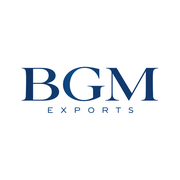
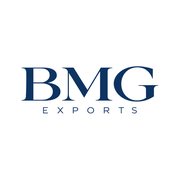
Correct the company name to BMG Exports
The name was spelled BGM throughout. Updates every page, title, description,
structured data, llms.txt, alt text, stone IDs (bgm-00x -> bmg-00x, with a
permanent redirect for old links), package name and site URL
(bmgexports.vercel.app). Replaces the logo, favicon, app icons and share card
with the corrected BMG artwork.

Changed region(s): [[0.1111, 0.3611, 0.8889, 0.6389]]

diff --git a/lib/site.ts b/lib/site.ts
@@ -1,11 +1,11 @@
 // Single source of truth for site-wide facts used by metadata, structured data and llms.txt.
 
 export const SITE = {
-  name: "BGM Exports",
-  url: process.env.NEXT_PUBLIC_SITE_URL ?? "https://bgmexports.vercel.app",
+  name: "BMG Exports",
+  url: process.env.NEXT_PUBLIC_SITE_URL ?? "https://bmgexports.vercel.app",
   tagline: "Brilliance, exported with integrity.",
   description:
-    "BGM Exports supplies certified diamonds, selected with care and delivered to jewellers, designers and collectors worldwide. Browse the collection and send an enquiry.",
+    "BMG Exports supplies certified diamonds, selected with care and delivered to jewellers, designers and collectors worldwide. Browse the collection and send an enquiry.",
   keywords: [
     "certified diamonds",
     "diamond exporter",
@@ -15,7 +15,7 @@ export const SITE = {
     "IGI certified diamonds",
     "wholesale diamonds",
     "loose diamonds",
-    "BGM Exports",
+    "BMG Exports",
   ],
 } as const;
 
@@ -38,15 +38,15 @@ export const abs = (path: string) => new URL(path, SITE.url).toString();
 // Plain-language gemology answers, reused by the FAQ page, its structured data and llms.txt.
 export const FAQ: { q: string; a: string }[] = [
   {
-    q: "What does BGM Exports sell?",
-    a: "BGM Exports supplies certified diamonds to jewellers, designers and collectors worldwide. You can browse the collection online and send an enquiry for availability and pricing.",
+    q: "What does BMG Exports sell?",
+    a: "BMG Exports supplies certified diamonds to jewellers, designers and collectors worldwide. You can browse the collection online and send an enquiry for availability and pricing.",
   },
   {
     q: "Are your diamonds certified?",
     a: "Yes. Every stone we offer is graded by an independent gemological laboratory, GIA or IGI, and the certificate is listed with the stone.",
   },
   {
-    q: "How do I buy a diamond from BGM Exports?",
+    q: "How do I buy a diamond from BMG Exports?",
     a: "Choose a stone in the collection and press 'Enquire about this stone', or use the contact page to describe what you need. We reply with availability and pricing.",
   },
   {

diff --git a/app/llms.txt/route.ts b/app/llms.txt/route.ts
@@ -13,7 +13,7 @@ export function GET() {
 
 > ${SITE.description}
 
-BGM Exports is a diamond exporter. It supplies certified diamonds, including fancy blue stones, to jewellers, designers and collectors worldwide. Stones are graded by independent laboratories (GIA or IGI). Sales are by enquiry: there is no online checkout, and prices are quoted on request.
+BMG Exports is a diamond exporter. It supplies certified diamonds, including fancy blue stones, to jewellers, designers and collectors worldwide. Stones are graded by independent laboratories (GIA or IGI). Sales are by enquiry: there is no online checkout, and prices are quoted on request.
 
 ## Contact
 - Email: ${CONTACT.email}
@@ -23,7 +23,7 @@ BGM Exports is a diamond exporter. It supplies certified diamonds, including fan
 - [Home](${abs("/")}): interactive anatomy of a diamond (table, crown, girdle, pavilion, culet) and entry points
 - [Collection](${abs("/collection")}): the stones currently listed, filterable by shape and carat
 - [FAQ](${abs("/faq")}): short answers about certification, shipping, the 4Cs and diamond anatomy
-- [About](${abs("/about")}): who BGM Exports is and how it works
+- [About](${abs("/about")}): who BMG Exports is and how it works
 - [Contact / enquiry](${abs("/contact")}): send an enquiry; accepts an optional stone reference
 
 ## Current stones
@@ -34,7 +34,7 @@ ${stones}
 - [Sitemap](${abs("/sitemap.xml")})
 
 ## How to act on this site
-- To enquire about a stone, open \`${abs("/contact")}?stone=<stone id>\`, for example \`${abs("/contact")}?stone=${diamonds[0]?.id ?? "bgm-001"}\`, and submit the form. The user should confirm before anything is sent.
+- To enquire about a stone, open \`${abs("/contact")}?stone=<stone id>\`, for example \`${abs("/contact")}?stone=${diamonds[0]?.id ?? "bmg-001"}\`, and submit the form. The user should confirm before anything is sent.
 - Pages expose WebMCP tools (list_diamonds, get_diamond, start_enquiry) to browser agents that support it.
 
 ## Frequently asked questions

diff --git a/app/about/page.tsx b/app/about/page.tsx
@@ -2,9 +2,9 @@ import type { Metadata } from "next";
 import SectionHeading from "@/components/SectionHeading";
 
 export const metadata: Metadata = {
-  title: "About BGM Exports",
+  title: "About BMG Exports",
   description:
-    "BGM Exports supplies certified diamonds to jewellers, designers and collectors worldwide, with honest grading, careful selection and responsible sourcing.",
+    "BMG Exports supplies certified diamonds to jewellers, designers and collectors worldwide, with honest grading, careful selection and responsible sourcing.",
   alternates: { canonical: "/about" },
 };
 
@@ -18,10 +18,10 @@ export default function AboutPage() {
   return (
     <>
       <section className="mx-auto max-w-6xl px-4 sm:px-6 py-20">
-        <SectionHeading level={1} eyebrow="About" title="The BGM Exports story" />
+        <SectionHeading level={1} eyebrow="About" title="The BMG Exports story" />
         <div className="mx-auto mt-10 max-w-2xl space-y-5 text-slate">
           <p>
-            BGM Exports supplies certified natural diamonds to jewellers, designers and collectors around the world.
+            BMG Exports supplies certified natural diamonds to jewellers, designers and collectors around the world.
             We combine careful selection with a straightforward, personal way of doing business.
           </p>
           <p>

diff --git a/data/diamonds.ts b/data/diamonds.ts
@@ -20,9 +20,9 @@ export const shapes: Shape[] = ["Radiant", "Cushion", "Oval"];
 
 // Photos are real. Carat, colour and clarity are the owner's figures; cut and certificate are not yet supplied.
 export const diamonds: Diamond[] = [
-  { id: "bgm-001", shape: "Radiant", carat: 1.324, color: "H", clarity: "VS1", image: "/images/radiant-up.jpg", sheet: "/images/radiant-sheet.jpg", featured: true },
-  { id: "bgm-002", shape: "Cushion", carat: 1.004, color: "J", clarity: "VS2", image: "/images/cushion-up.jpg", sheet: "/images/cushion-sheet.jpg", featured: true },
-  { id: "bgm-003", shape: "Oval", carat: 1.563, color: "L", clarity: "VS1", image: "/images/oval-up.jpg", sheet: "/images/oval-sheet.jpg", featured: true },
+  { id: "bmg-001", shape: "Radiant", carat: 1.324, color: "H", clarity: "VS1", image: "/images/radiant-up.jpg", sheet: "/images/radiant-sheet.jpg", featured: true },
+  { id: "bmg-002", shape: "Cushion", carat: 1.004, color: "J", clarity: "VS2", image: "/images/cushion-up.jpg", sheet: "/images/cushion-sheet.jpg", featured: true },
+  { id: "bmg-003", shape: "Oval", carat: 1.563, color: "L", clarity: "VS1", image: "/images/oval-up.jpg", sheet: "/images/oval-sheet.jpg", featured: true },
 ];
 
 export const fmtCarat = (n: number) => n.toFixed(3);

diff --git a/components/EnquiryForm.tsx b/components/EnquiryForm.tsx
@@ -32,7 +32,7 @@ export default function EnquiryForm() {
         body: JSON.stringify({
           ...fields,
           access_key: ACCESS_KEY,
-          from_name: "BGM Exports website",
+          from_name: "BMG Exports website",
           subject: `New enquiry from ${fields.name}${fields.stone ? ` — ${fields.stone}` : ""}`,
         }),
       });
@@ -60,7 +60,7 @@ export default function EnquiryForm() {
       onSubmit={onSubmit}
       className="space-y-5"
       // WebMCP: lets browser agents discover this form as a tool (the user still reviews and sends it).
-      {...{ toolname: "send_enquiry", tooldescription: "Send an enquiry to BGM Exports about a diamond. Requires name, email and message; stone is an optional stone id such as bgm-001." }}
+      {...{ toolname: "send_enquiry", tooldescription: "Send an enquiry to BMG Exports about a diamond. Requires name, email and message; stone is an optional stone id such as bmg-001." }}
     >
       <div className="grid gap-5 sm:grid-cols-2">
         <label className="block text-sm">

diff --git a/components/Navbar.tsx b/components/Navbar.tsx
@@ -18,8 +18,8 @@ export default function Navbar() {
     <header className="sticky top-0 z-30 border-b border-mist bg-white sm:bg-white/90 sm:backdrop-blur">
       {/* Fixed 64px bar (+1px border): the home-page scroll scene positions itself against this height. */}
       <nav className="mx-auto flex h-16 max-w-6xl items-center justify-between px-4 sm:px-6" aria-label="Main">
-        <Link href="/" aria-label="BGM Exports home" onClick={() => setOpen(false)}>
-          <Image src="/images/logo.png" alt="BGM Exports" width={1037} height={366} className="h-8 w-auto sm:h-10" priority />
+        <Link href="/" aria-label="BMG Exports home" onClick={() => setOpen(false)}>
+          <Image src="/images/logo.png" alt="BMG Exports" width={1072} height={385} className="h-8 w-auto sm:h-10" priority />
         </Link>
 
         <ul className="hidden items-center gap-8 text-sm tracking-wide text-navy sm:flex">

diff --git a/components/WebMcp.tsx b/components/WebMcp.tsx
@@ -37,7 +37,7 @@ const summarise = (d: (typeof diamonds)[number]) => ({
 const tools: Tool[] = [
   {
     name: "list_diamonds",
-    description: "List the diamonds in the BGM Exports collection, optionally filtered by shape and carat weight.",
+    description: "List the diamonds in the BMG Exports collection, optionally filtered by shape and carat weight.",
     inputSchema: {
       type: "object",
       properties: {
@@ -55,7 +55,7 @@ const tools: Tool[] = [
   },
   {
     name: "get_diamond",
-    description: "Get the full details of one diamond by its id (for example bgm-001).",
+    description: "Get the full details of one diamond by its id (for example bmg-001).",
     inputSchema: { type: "object", properties: { id: { type: "string", description: "Stone id" } }, required: ["id"] },
     execute: (args) => {
       const d = diamonds.find((x) => x.id === args.id);

diff --git a/app/collection/page.tsx b/app/collection/page.tsx
@@ -8,7 +8,7 @@ import { abs } from "@/lib/site";
 export const metadata: Metadata = {
   title: "Collection — Certified Blue Diamonds",
   description:
-    "Browse certified blue diamonds from BGM Exports in radiant, cushion and oval cuts. Filter by shape and carat, then enquire about any stone.",
+    "Browse certified blue diamonds from BMG Exports in radiant, cushion and oval cuts. Filter by shape and carat, then enquire about any stone.",
   alternates: { canonical: "/collection" },
 };
 
@@ -21,7 +21,7 @@ export default function CollectionPage() {
           "@graph": [
             {
               "@type": "CollectionPage",
-              name: "BGM Exports diamond collection",
+              name: "BMG Exports diamond collection",
               url: abs("/collection"),
               mainEntity: {
                 "@type": "ItemList",

diff --git a/app/opengraph-image.tsx b/app/opengraph-image.tsx
@@ -3,7 +3,7 @@ import path from "node:path";
 import { ImageResponse } from "next/og";
 import { SITE } from "@/lib/site";
 
-export const alt = "BGM Exports — certified diamonds, exported with integrity";
+export const alt = "BMG Exports — certified diamonds, exported with integrity";
 export const size = { width: 1200, height: 630 };
 export const contentType = "image/png";
 
@@ -25,7 +25,7 @@ export default async function OpengraphImage() {
           background: "radial-gradient(circle at 50% 45%, #1f4fd8 0%, #0f2a52 55%, #0a1c38 100%)",
         }}
       >
-        <img src={src} width={560} height={198} alt="" />
+        <img src={src} width={560} height={201} alt="" />
         <div style={{ marginTop: 40, fontSize: 36, color: "#dce8fa", letterSpacing: 2 }}>{SITE.tagline}</div>
       </div>
     ),

diff --git a/app/twitter-image.tsx b/app/twitter-image.tsx
@@ -3,7 +3,7 @@ import path from "node:path";
 import { ImageResponse } from "next/og";
 import { SITE } from "@/lib/site";
 
-export const alt = "BGM Exports — certified diamonds, exported with integrity";
+export const alt = "BMG Exports — certified diamonds, exported with integrity";
 export const size = { width: 1200, height: 630 };
 export const contentType = "image/png";
 
@@ -24,7 +24,7 @@ export default async function TwitterImage() {
           background: "radial-gradient(circle at 50% 45%, #1f4fd8 0%, #0f2a52 55%, #0a1c38 100%)",
         }}
       >
-        <img src={src} width={560} height={198} alt="" />
+        <img src={src} width={560} height={201} alt="" />
         <div style={{ marginTop: 40, fontSize: 36, color: "#dce8fa", letterSpacing: 2 }}>{SITE.tagline}</div>
       </div>
     ),

diff --git a/components/Footer.tsx b/components/Footer.tsx
@@ -57,7 +57,7 @@ export default function Footer() {
       <div className="mx-auto max-w-6xl px-4 pb-8 pt-16 sm:px-6 sm:pb-10 sm:pt-24">
         <div className="grid gap-12 md:grid-cols-[1.4fr_1fr_1.2fr] md:gap-10">
           <div>
-            <Image src="/images/logo-white.png" alt={SITE.name} width={1037} height={366} className="h-14 w-auto sm:h-16" />
+            <Image src="/images/logo-white.png" alt={SITE.name} width={1072} height={385} className="h-14 w-auto sm:h-16" />
             <p className="mt-5 max-w-xs font-serif text-2xl leading-snug text-white sm:text-3xl">{SITE.tagline}</p>
             <p className="mt-3 max-w-xs text-sm text-white/65">Certified diamonds, selected with care and delivered worldwide.</p>
             <Link

diff --git a/app/page.tsx b/app/page.tsx
@@ -12,9 +12,9 @@ const trust = [
 ];
 
 export const metadata: Metadata = {
-  title: { absolute: "BGM Exports — Certified Diamonds, Exported Worldwide" },
+  title: { absolute: "BMG Exports — Certified Diamonds, Exported Worldwide" },
   description:
-    "Certified diamonds, including fancy blue stones, supplied to jewellers, designers and collectors worldwide. Explore the anatomy of a diamond and send an enquiry to BGM Exports.",
+    "Certified diamonds, including fancy blue stones, supplied to jewellers, designers and collectors worldwide. Explore the anatomy of a diamond and send an enquiry to BMG Exports.",
   alternates: { canonical: "/" },
 };
 
